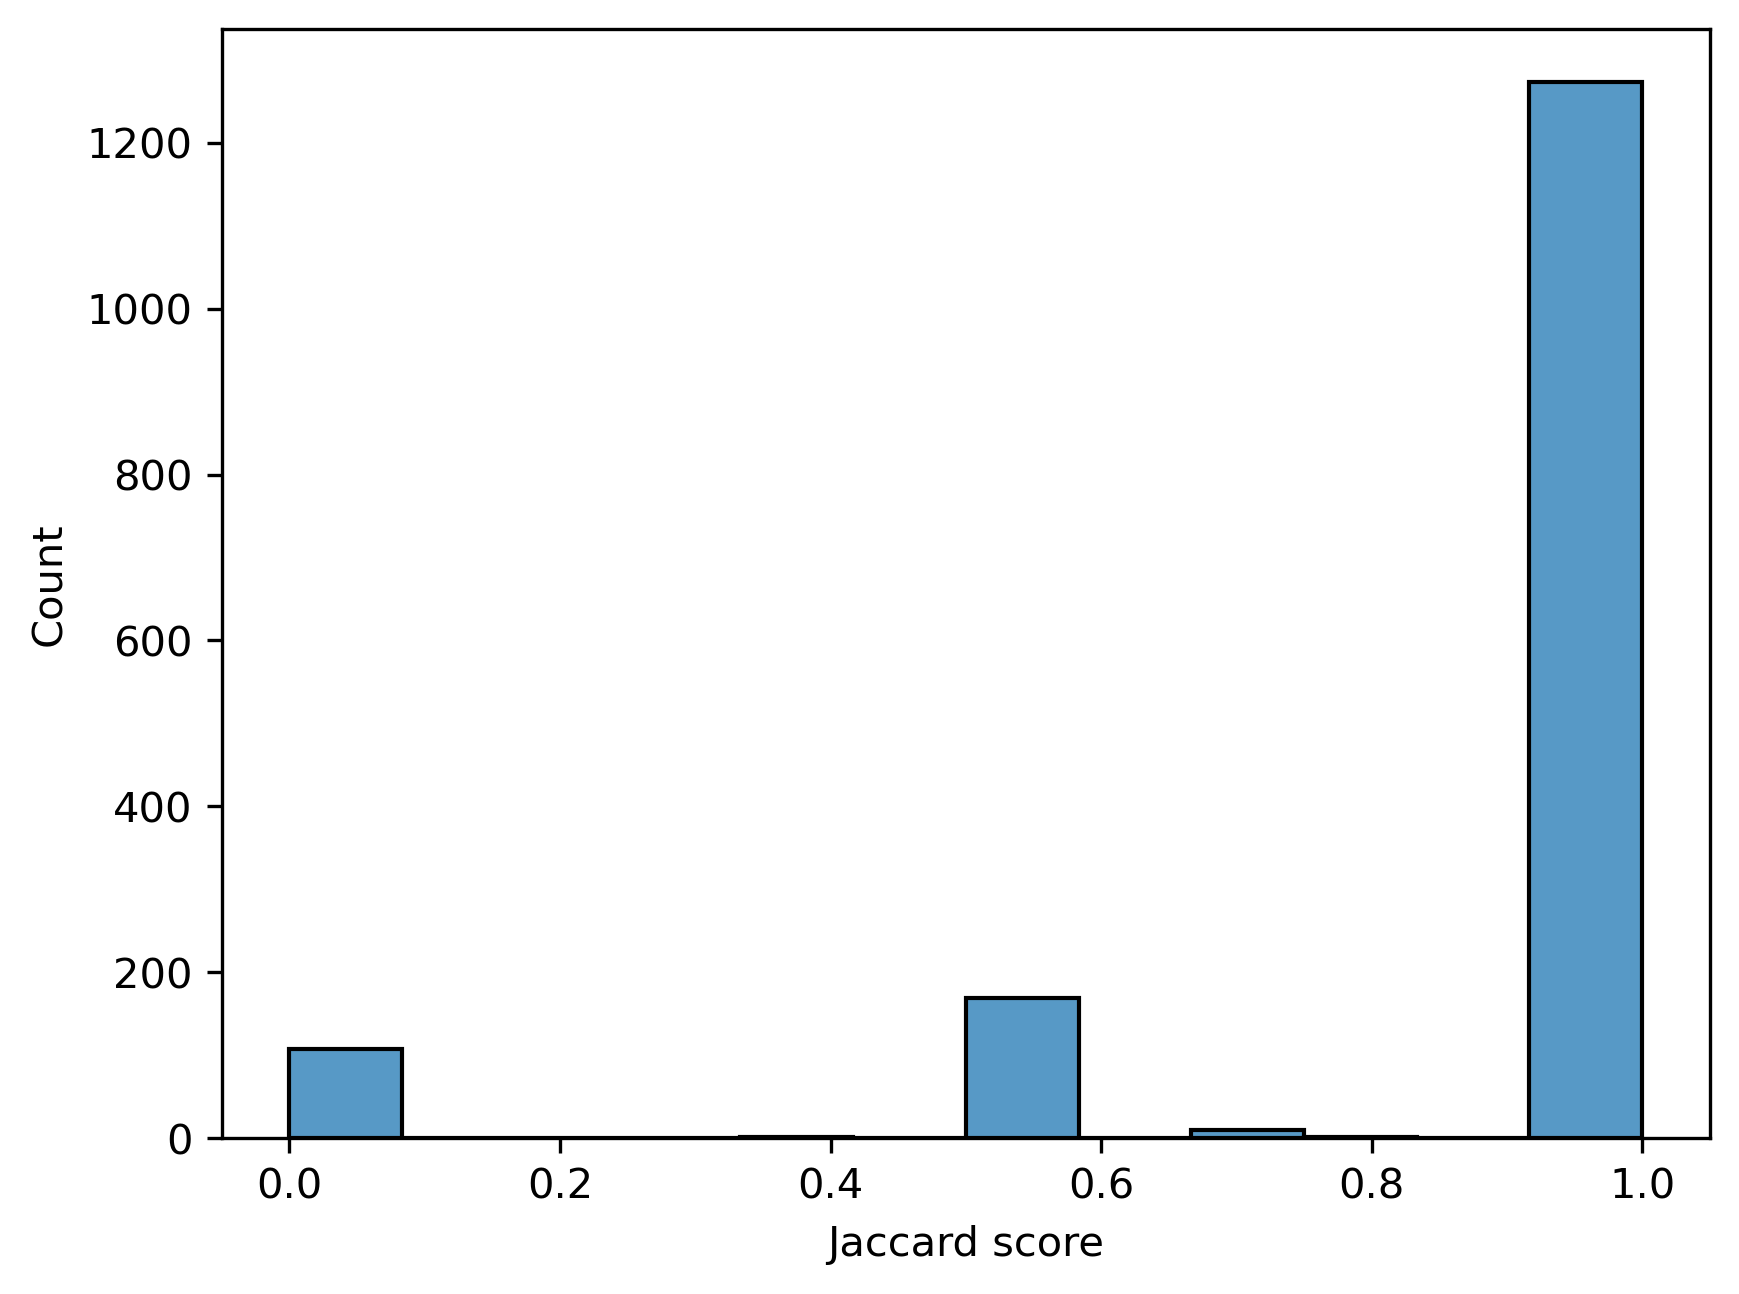
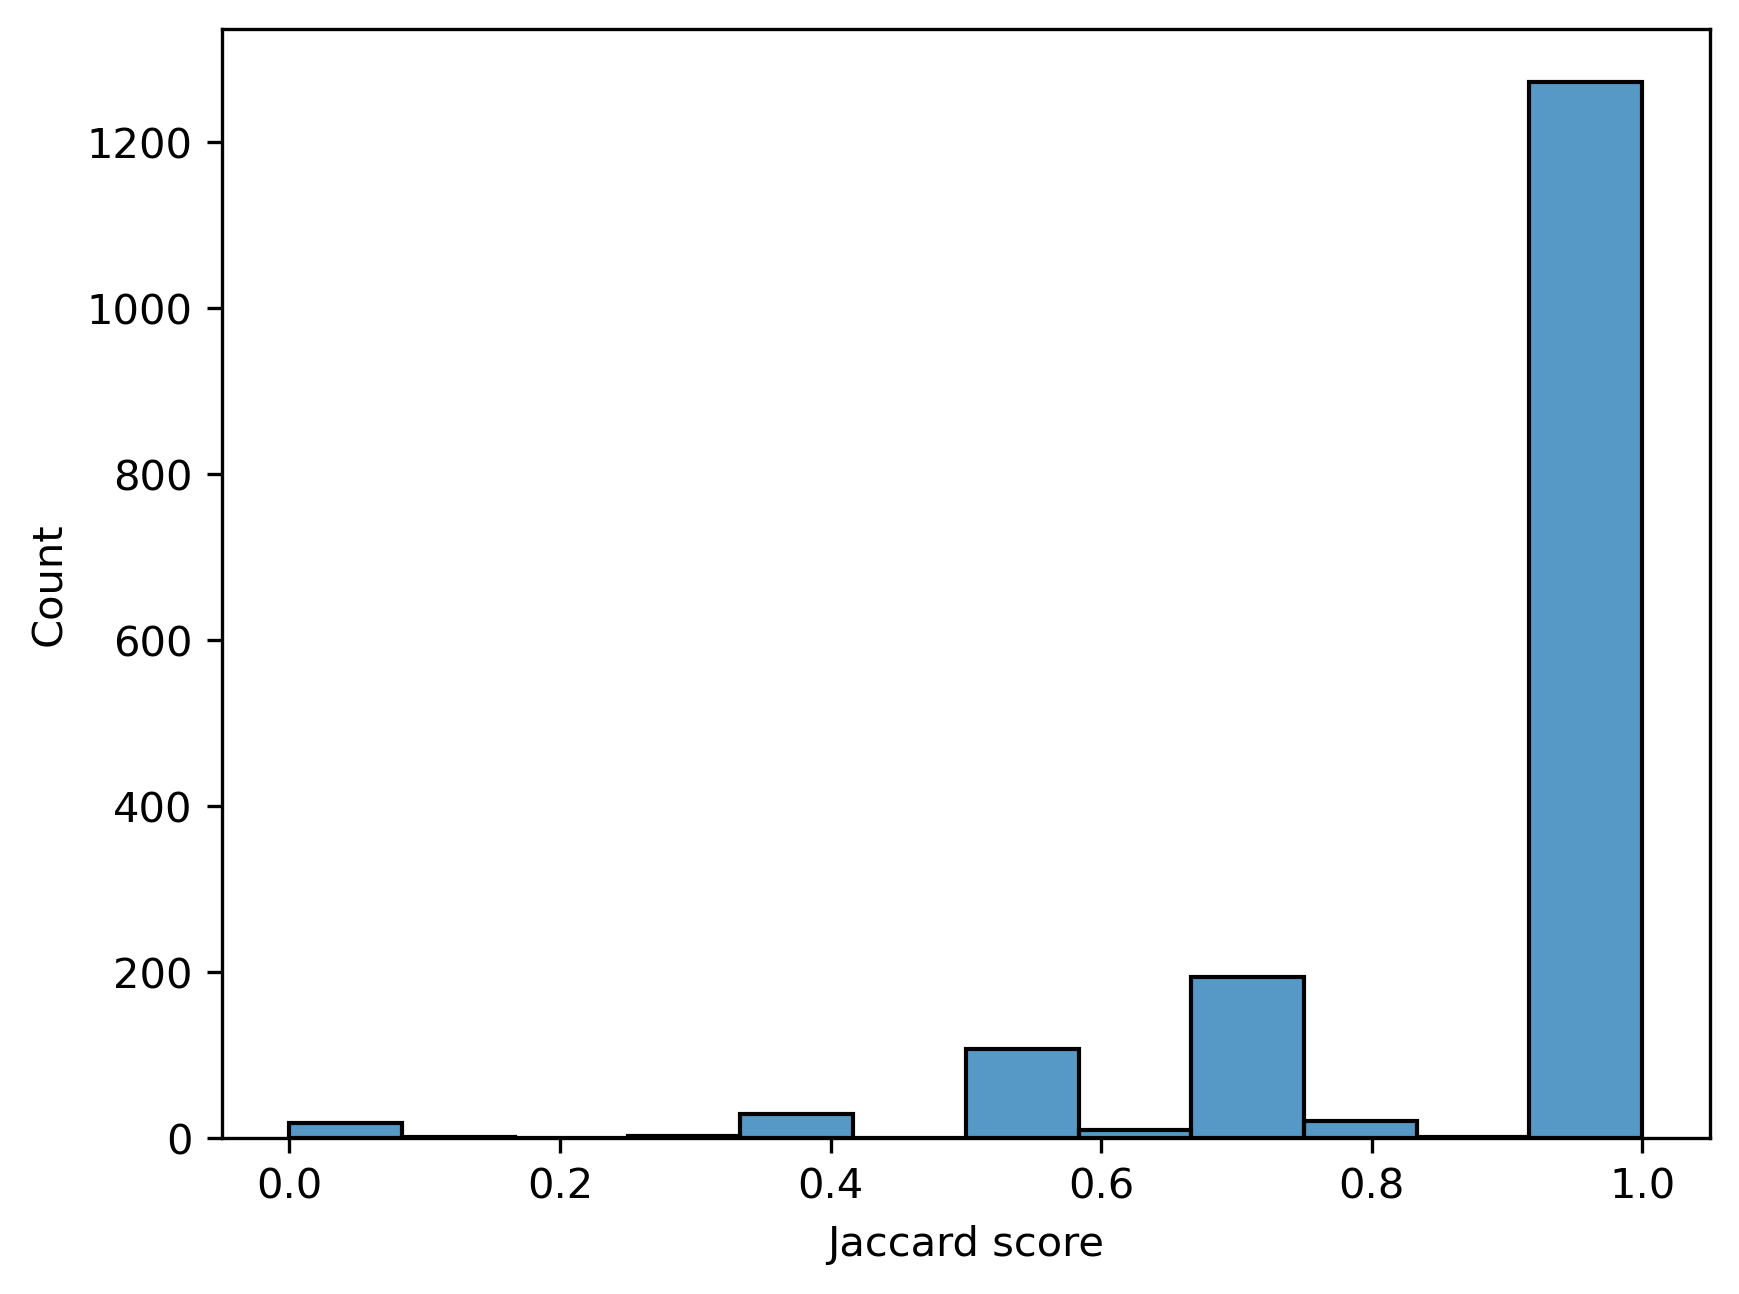
hmmer ran, results are defendable

diff --git a/pipeline/s2.9_compare_hait_hmmer.py b/pipeline/s2.9_compare_hait_hmmer.py
@@ -1,0 +1,85 @@
+"""Compare labels from hmmer on our data vs Hait et al.
+"""
+import os
+import shutil
+import time
+import io
+from yaml import safe_load as yaml_load
+from yaml import dump as yaml_dump
+import duckdb as ddb
+
+import numpy as np
+import pandas as pd
+import scipy.stats
+import matplotlib.pyplot as plt
+import seaborn as sns
+sns.set_style('whitegrid')
+sns.set_context('paper')
+
+from typing import List
+import logging
+
+import learn2therm.utils
+
+if 'LOGLEVEL' in os.environ:
+    LOGLEVEL = os.environ['LOGLEVEL']
+    LOGLEVEL = getattr(logging, LOGLEVEL)
+else:
+    LOGLEVEL = logging.INFO
+LOGNAME = __file__
+LOGFILE = f'./logs/{os.path.basename(__file__)}.log'
+# get the logger in subprocesses
+logger = learn2therm.utils.start_logger_if_necessary(LOGNAME, LOGFILE, LOGLEVEL, filemode='w')
+
+if __name__ == "__main__":
+
+    # get l2t data
+    con = ddb.connect('./data/database.ddb', read_only=True)
+    con.execute("CREATE TEMP TABLE labels AS SELECT * FROM read_parquet('./data/validation/hmmer/hmmer_labels/*.parquet')")
+    
+    l2t_data = con.execute("""SELECT (pairs.query_align_cov+pairs.subject_align_cov)/2.0, labels.score, labels.bool_confirmed
+        FROM pairs INNER JOIN labels ON pairs.meso_pid=labels.meso_pid AND pairs.thermo_pid=labels.thermo_pid
+    """).df().rename(
+        columns={'score': 'jaccard_score', 'bool_confirmed': 'functional', '((pairs.query_align_cov + pairs.subject_align_cov) / 2.0)': 'coverage'})
+
+    # get hait data
+    hait_data = pd.read_csv('./data/validation/hmmer/hait_scores.csv', index_col=0)[['jaccard_score', 'functional']]
+    logger.info(f'Loaded {hait_data.shape[0]} rows from Hait et al. and {l2t_data.shape[0]} rows from learn2therm.')
+
+    # compute some metrics about finding at least one
+    metrics = {}
+    metrics['l2t_not_in_Pfam'] = float(l2t_data['functional'].isna().mean())
+    metrics['hait_not_in_Pfam'] = float(hait_data['functional'].isna().mean())
+    
+    # add score metrics for those we did find
+    metrics['l2t_jaccard_mean'] = float(l2t_data['jaccard_score'].mean())
+    metrics['hait_jaccard_mean'] = float(hait_data['jaccard_score'].mean())
+    # compute a t statistic
+    t, p = scipy.stats.ttest_ind(l2t_data['jaccard_score'], hait_data['jaccard_score'], alternative='less',equal_var=False, nan_policy='omit')
+    logger.info(f"t, p: {t}, {p} full")
+    t, p = scipy.stats.ttest_ind(l2t_data[l2t_data['coverage']>0.95]['jaccard_score'], hait_data['jaccard_score'], alternative='less',equal_var=False, nan_policy='omit')
+    logger.info(f"t, p: {t}, {p} 95+")
+    metrics['t_pvalue_base'] = float(p)
+    metrics['t_pvalue_95'] = float(p)
+    # make historgram of jacccard for those we did find vs the 2 datasets
+    fig, ax = plt.subplots()
+    # first defined bins
+    # bins = list(np.linspace(0, 1, 10))
+    # bins.append(1.0)
+    # plot l2t to the left and hait to the right so that bins to not overlap
+    ax.hist(
+        [l2t_data['jaccard_score'], l2t_data[l2t_data['coverage']>0.95]['jaccard_score'], hait_data['jaccard_score']],
+        bins=10,
+        alpha=1.0, 
+        label=[f'learn2therm N={len(l2t_data)}',f'learn2therm 95+ N={int((l2t_data["coverage"]>0.95).sum())}', f'Hait et al. N={len(hait_data)}'], density=True)
+    ax.set_xlabel('Jaccard score of Pfam annotations')
+    ax.set_ylabel('Density')
+    ax.legend()
+    fig.savefig('./data/validation/hmmer/compare_jaccard_hist.png', dpi=300, bbox_inches='tight')
+
+    # save metrics
+    with open('./data/validation/hmmer/s2.9_metrics.yaml', 'w') as f:
+        yaml_dump(metrics, f)
+
+    
+    

diff --git a/pipeline/s2.8_parse_hmmer_result.py b/pipeline/s2.8_parse_hmmer_result.py
@@ -118,7 +118,7 @@ def process_pairs_table(dbpath, chunk_size:int, jaccard_threshold):
 
         # Write DataFrame to parquet
         chunk_counter += 1  # Increment the chunk counter
-        query_chunk = query_chunk[['meso_pid', 'thermo_pid', 'score']]
+        query_chunk = query_chunk[['meso_pid', 'thermo_pid', 'score', 'bool_confirmed']]
         query_chunk.to_parquet(f'{OUTPUT_DIR}{chunk_counter}_output.parquet')
         logger.info(f'Chunk {chunk_counter} of size {len(query_chunk)} written to parquet')
 
@@ -170,7 +170,7 @@ if __name__ == '__main__':
     metrics = {}
     count_pairs = conn.execute("SELECT COUNT(*) FROM pairs").fetchone()[0]
     count_labels = conn.execute("SELECT COUNT(*) FROM labels").fetchone()[0]
-    assert count_pairs == count_labels, "Number of pairs and labels do not match"
+    # assert count_pairs == count_labels, "Number of pairs and labels do not match"
     count_found = conn.execute("SELECT COUNT(*) FROM labels WHERE score IS NOT NULL").fetchone()[0]
     fraction_found = float(count_found/count_pairs)
 

diff --git a/pipeline/s2.7_run_hmmer.py b/pipeline/s2.7_run_hmmer.py
@@ -165,7 +165,8 @@ if __name__== "__main__":
     conn = ddb.connect(DB_PATH, read_only=True)
     logger.info("Connected to learn2therm database")
     if params['dev_sample_data']:
-        proteins_q = conn.execute(f"SELECT pid, protein_seq FROM proteins WHERE proteins.pid IN (SELECT DISTINCT(pairs.meso_pid) FROM pairs) OR proteins.pid IN (SELECT DISTINCT(pairs.thermo_pid) FROM pairs) LIMIT {params['dev_sample_data']}")
+        conn.execute(f"CREATE TEMP TABLE pairs_sample AS SELECT * FROM pairs ORDER BY RANDOM() LIMIT {params['dev_sample_data']}")
+        proteins_q = conn.execute(f"SELECT pid, protein_seq FROM proteins WHERE proteins.pid IN (SELECT DISTINCT(pairs_sample.meso_pid) FROM pairs_sample) OR proteins.pid IN (SELECT DISTINCT(pairs_sample.thermo_pid) FROM pairs_sample)")
     else:
         proteins_q = conn.execute("SELECT pid, protein_seq FROM proteins WHERE proteins.pid IN (SELECT DISTINCT(pairs.meso_pid) FROM pairs) OR proteins.pid IN (SELECT DISTINCT(pairs.thermo_pid) FROM pairs)")
     
